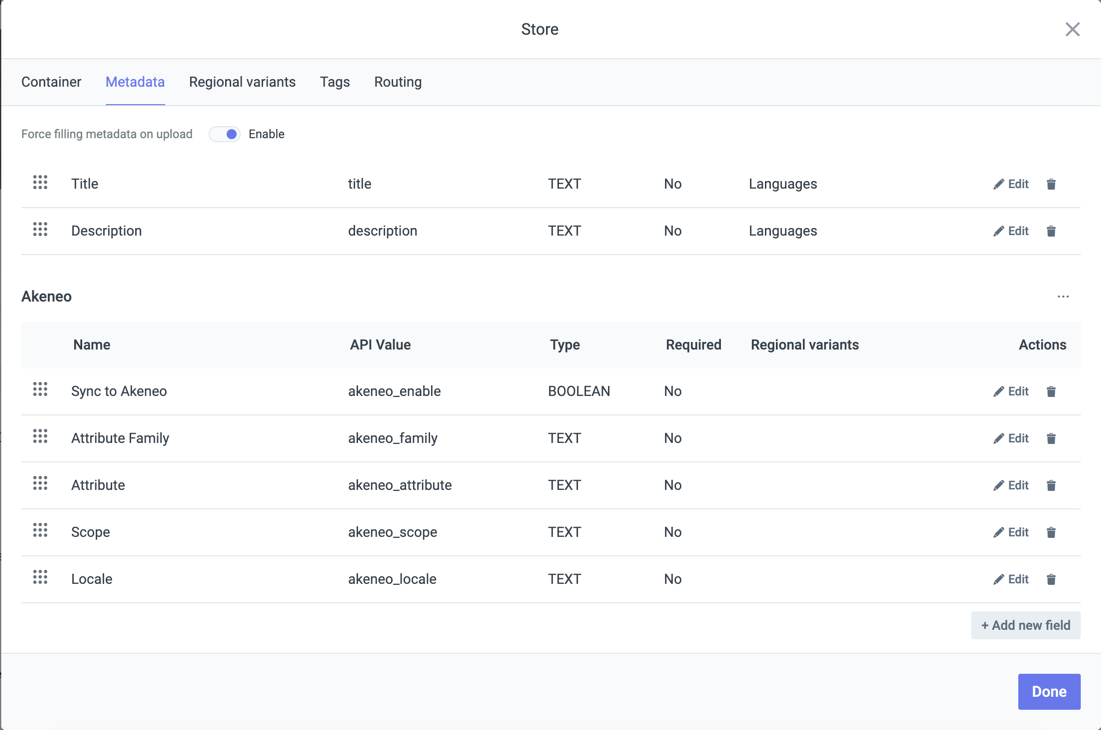
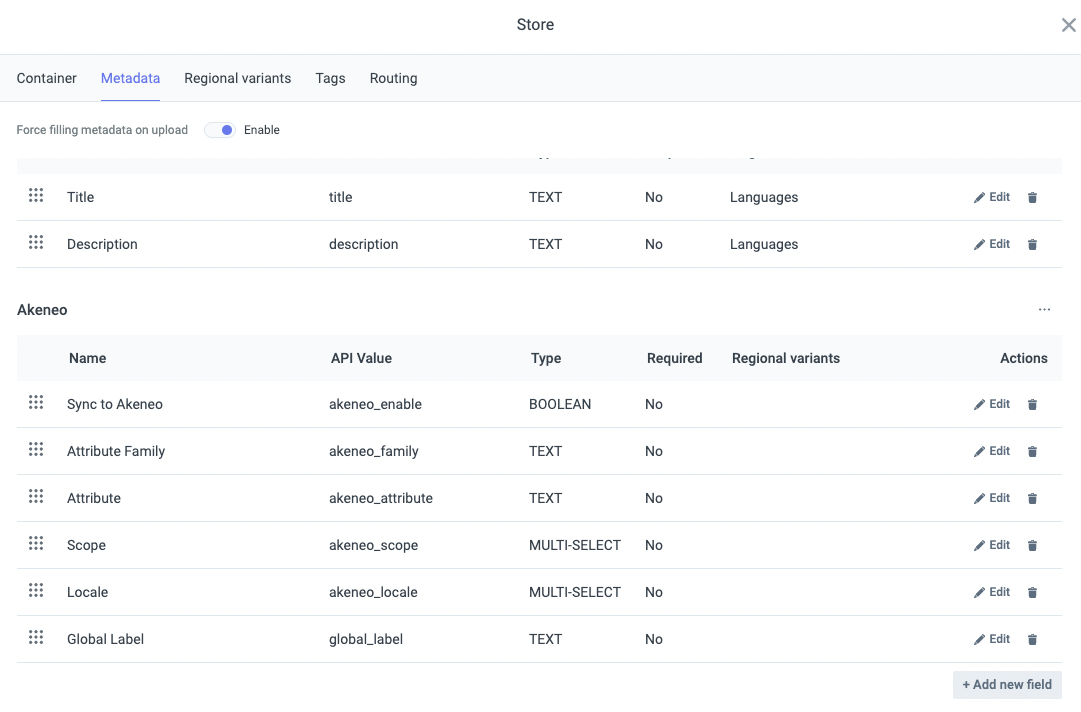
update document

diff --git a/README.md b/README.md
@@ -56,10 +56,11 @@ to ```Successfull```
   ![submit](docs/submit.png)
 
 ### 2. Config Mapping
-* After finished setup process, please go to mapping, choose which mapping family you want 
+After finished setup process, please go to mapping, choose which mapping family you want 
 to config
   ![submit](docs/mapping.png)
-* There are two settings
+
+#### There are two settings
 
 Type Global: Mapping for image without scope and locale specific
    ![global](docs/global.png)
@@ -77,6 +78,20 @@ Type Scope and Locale:
   - Attribute: Akeneo Attribute, Attribute (will change depend on its config(Value per channel, Value per locale)):
   ![akeneoscope](docs/akeneoscope.png)
   - Behavior: Same as Global type
+
+#### Image size 
+You can config image size for each locale and scope, by click Image size in Tab
+
+![filerobot](docs/imagesize.png)
+
+- Scope: Scope from Akeneo
+- Locale: Each Scope have a locale to sync
+- Size: Image size, Format axb, a and b are intergers
+
+If you use the same size, or system can not find any configuration match specific scope and locale, It will use fallback 
+size in Connector Setting
+
+![filerobot](docs/fallback.png)
 
 ### 3. Image Product in Filerobot
 ![filerobot](docs/frproduct.png)
@@ -123,12 +138,32 @@ Go to Store -> Metadata Tab, and add meta follow picture bellow(API Value must e
 - **akeneo_enable**: Boolean type,  Enable sync to Akeneo or not
 - **akeneo_family**: Text type, Akeneo Asset manager Attribute family
 - **akeneo_attribute**: Text type, Attribute to sync
-- **akeneo_scope**: Text type, Scope
-- **akeneo_locale**: Text type, Locale
+- **akeneo_scope**: Multiple choices, All scopes from akeneo, 
+- **akeneo_locale**: Multiple choices, All locales from akeneo
 
 #### 5.2 Add information in each asset
 Each asset click Detail, Metadata tab and add the information
 ![img.png](docs/assetmeta.png)
+
+#### 5.3 Metadata mapping
+Each asset in filerobot can have difference metadata, If you want to sync it to akeneo you can use Meta mapping Tab
+![byasset](docs/metamapping.png)
+
+- Metadata: metadata from filerobot
+- Family: Family of Asset Manager
+- Attribute: Attribute belong to Family
+  - If Attribute is Global -> Has Local will uncheck
+  - If Attribute has value per channel -> It shows scopes list to choose 
+    - You need define difference metadata for each scope like: title_commerce -> attribute title in Scope Commerce
+    title_print -> attribute in scope Print
+  - If Attribute has value per locale, metadata must have Regional variant when create metadata
+    ![byasset](docs/meta_locale.png)
+    
+    And Language in Filerobot must match the code in Akeneo, You can change it in store setting -> Regional Variant tab
+    for Filerobot and Setting in Akeneo
+  
+    ![byasset](docs/locale_filerobot.png)
+    ![byasset](docs/locale_akeneo.png)
 
 ## Warning
 - If there are any change on Akeneo, You could go to config and Click ```Submit``` to sync new update from akeneo 
